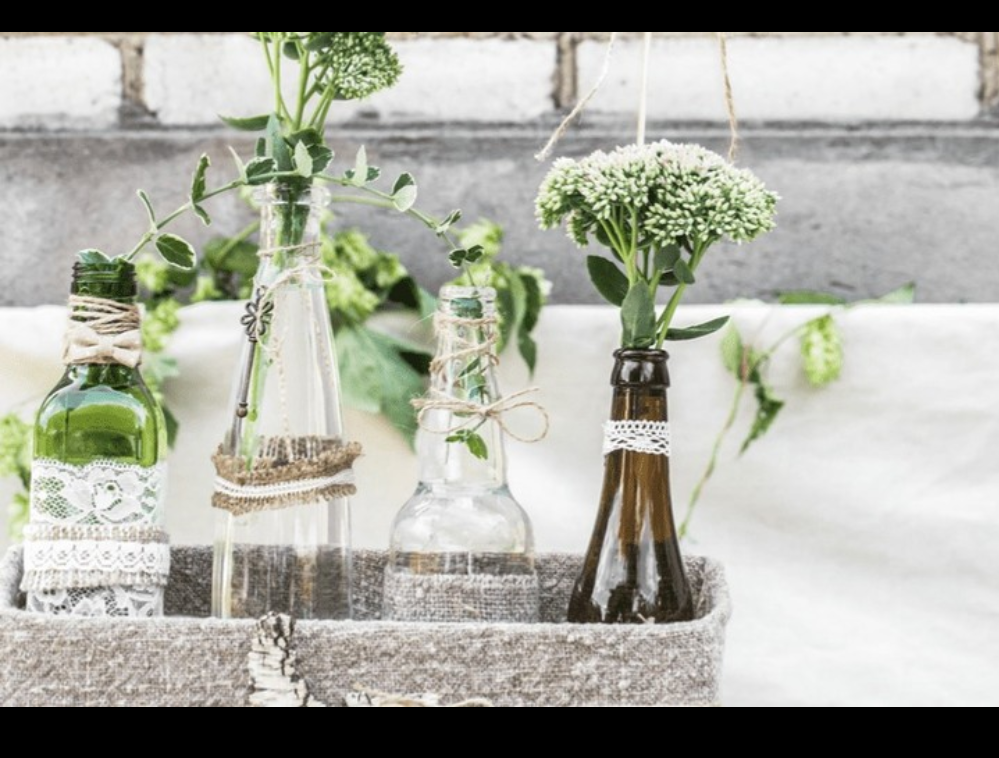
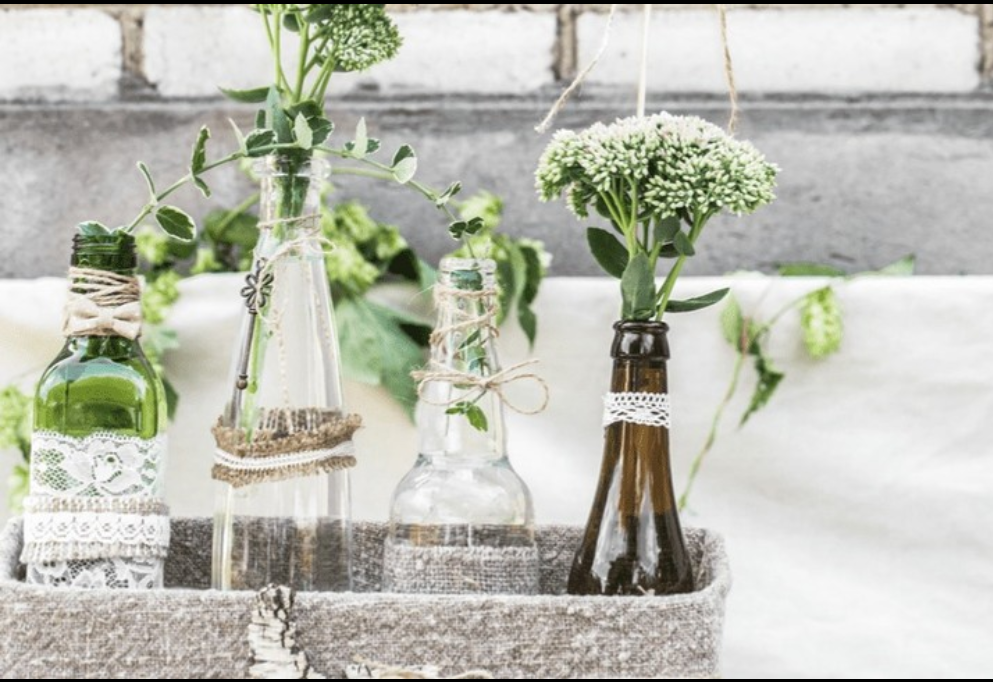
Commit

diff --git a/src/Components/carrousel.jsx b/src/Components/carrousel.jsx
@@ -6,6 +6,7 @@ import imagem1 from '../assets/imagem1-carrousel.png';
 import imagem2 from '../assets/imagem2-carrousel.png';
 import imagem3 from '../assets/imagem3-carrousel.png';
 import '../App.css';
+import './historia.css';
 import Layout from './Layout';
 //import React, {Component} from 'react';
 
@@ -21,26 +22,26 @@ function History() {
                     <p className='p-name'>- Fernanda Ferraz</p>
                   </section>
                   <div className="carousel-div">
-                      <Carousel variant="dark">
+                      <Carousel variant="dark" indicators={false} controls={false}>
                           <Carousel.Item interval={1500}>
                               <img
                                   src={imagem1}
                                   alt="Garrafas de bebida servindo como vaso"
-                                  className="d-block w-80 h-50"
+                                  className="d-block w-80 img-car"
                               />
                           </Carousel.Item>
                           <Carousel.Item interval={1500}>
                               <img
                                   src={imagem2}
                                   alt="Jarros servindo como vaso"
-                                  className="d-block w-80 h-50"
+                                  className="d-block w-80 img-car"
                               />
                           </Carousel.Item>
                           <Carousel.Item interval={1500}>
                               <img
                                   src={imagem3}
                                   alt="Garrafas servindo como vaso"
-                                  className="d-block w-80 h-50"
+                                  className="d-block w-80 img-car"
                               />
                           </Carousel.Item>
                       </Carousel>

diff --git a/src/Components/Quemsomos.jsx b/src/Components/Quemsomos.jsx
@@ -7,7 +7,7 @@ const Quemsomos = () => {
     return (
         <div>
             <Layout />
-            <main className="main-who">
+            <main className="main-who main-margin">
                 <section className="section-us">
                     <h1>Conheça a gente</h1>
                     <img

diff --git a/src/App.css b/src/App.css
@@ -19,7 +19,7 @@ ul {
 }
 .article-home{
   display: grid;
-  grid-template-columns: 50% 50%;
+  grid-template-columns: 50% 48%;
   grid-template-rows: 100%;
   align-items: center;
   

diff --git a/src/Components/historia.css b/src/Components/historia.css
@@ -1,0 +1,6 @@
+.div-carousel{
+
+}
+.img-car{
+    height: fit-content;
+}
